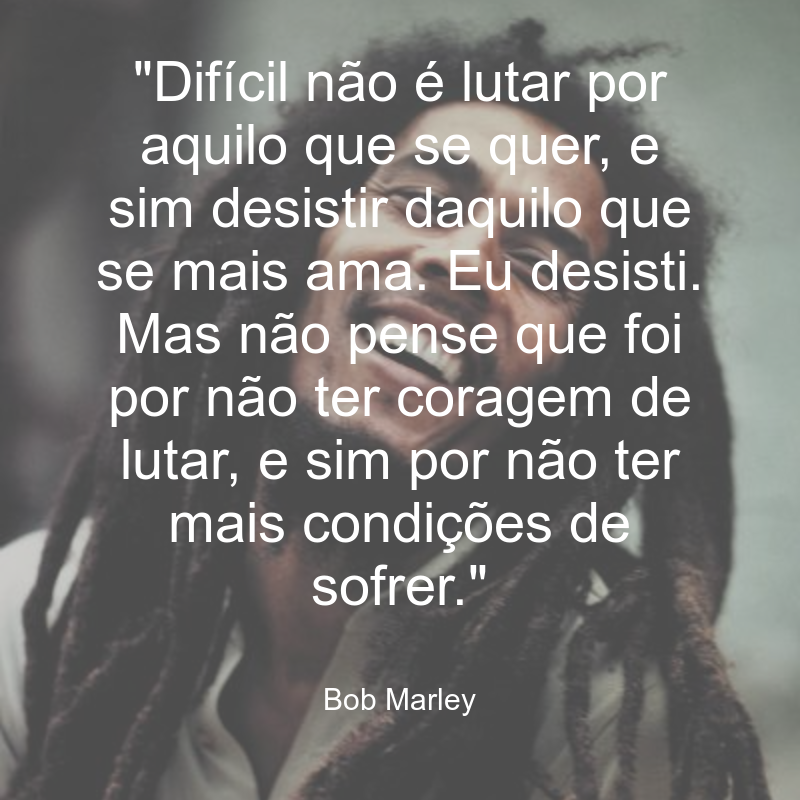
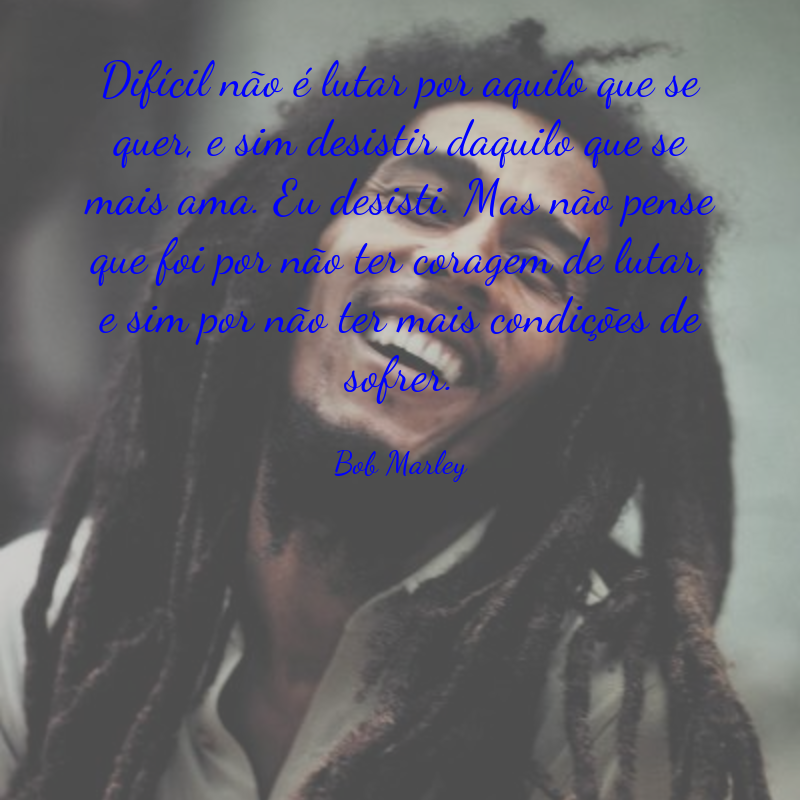
ajuste de layout, randomização da fonte escolhida

Changed region(s): [[0.0938, 0.0625, 0.9062, 0.5312], [0.1562, 0.5625, 0.8438, 0.7812], [0.4062, 0.8438, 0.5938, 0.9062]]

diff --git a/services/image_service.py b/services/image_service.py
@@ -5,7 +5,11 @@ from wand.image import Image
 
 from models.quote_model import Quote
 
+import random
+
 FACEBOOK_IMAGE_IDEAL_SIZE = 800
+FONT_FAMILIES = ['Pacifico', 'Source Code Pro', 'Dancing Script', 'Courgette']
+COLORS = ['orange', 'white', 'blue', 'green' ]
 
 def draw_rectangle(contxt, roi_width, roi_height, top, left, color):
     contxt.push()
@@ -55,24 +59,26 @@ def word_wrap(image, ctx, text, roi_width, roi_height):
 def write_text(quote):
     with Image(filename='new-picture.png') as img:
         with Drawing() as draw:
-            color = Color('WHITE')
+            color = Color(random.choice(COLORS))
             text_margin_top = 50
-            text_margin_left = 150
             text_width = int(FACEBOOK_IMAGE_IDEAL_SIZE / 1.25)
             text_heigth = int(FACEBOOK_IMAGE_IDEAL_SIZE / 1.15)
 
             draw_rectangle(draw, FACEBOOK_IMAGE_IDEAL_SIZE, FACEBOOK_IMAGE_IDEAL_SIZE, 0, 0, color)
             draw.fill_color = color
-            draw.font_family = 'Arial'
-            draw.font_size = 56
+            draw.font_family = random.choice(FONT_FAMILIES)
+            draw.font_size = 48
             draw.gravity = 'north'
 
             aligned_text = word_wrap(img, draw, quote.text, text_width, text_heigth)
             draw.text(0, text_margin_top, aligned_text)
 
-            draw.gravity = 'center'
-            draw.font_size = 30
-            draw.text(0, 300, quote.author)
+            mtrcs = draw.get_font_metrics(img, aligned_text, True)
+
+            y_position_author = int(mtrcs.text_height + text_margin_top)
+            draw.gravity = 'north'
+            draw.font_size = 32
+            draw.text(0, y_position_author, quote.author)
 
             draw.draw(img)
             img.save(filename='new-picture.png')

diff --git a/services/quotes_service.py b/services/quotes_service.py
@@ -1,6 +1,5 @@
 from bs4 import BeautifulSoup
 from ftfy import fix_text, fix_encoding
-from ftfy.fixes import restore_byte_a0
 from shared.configuration_service import get_config_by_key
 from shared.proxy_service import get_html_page
 from shared.database_service import get_all_used_quotes, set_new_quote
@@ -18,7 +17,6 @@ def get_some_quote():
     url = get_config_by_key('quotesSource')
 
     html_page = get_html_page(url)
-
     soup = BeautifulSoup(html_page, "lxml")
 
     quotes = soup.findAll("p", {"class": "frase"})
@@ -30,11 +28,10 @@ def get_some_quote():
 
     for quote in quotes:
         if quote.get_text() not in used_quotes and len(quote.get_text()) <= 300:
-            selected_quote.text = '"' + quote.get_text() + '"'
-            selected_quote.author = authors[quotes.index(quote)].get_text(strip=True)
+            selected_quote.text = quote.get_text()
+            selected_quote.author = authors[quotes.index(quote)].get_text()
             break
 
-    #set_new_quote(selected_quote)
-
+    #set_new_quote(selected_quote.text)
 
     return selected_quote

diff --git a/main.py b/main.py
@@ -6,12 +6,13 @@ from services.facebook_service import post_image_on_facebook
 import os
 import json
 
-quote = get_some_quote()
+for x in range(10):
+    quote = get_some_quote()
 
-dowload_image_by_text(quote.author)
+    #dowload_image_by_text(quote.author)
 
-print_text_on_image_and_save(quote)
+    print_text_on_image_and_save(quote)
 
-#post_image_on_facebook('Para refletir...')
+    #post_image_on_facebook('Para refletir...')
 
-os.system("start new-picture.png")
+    os.system("start new-picture.png")
